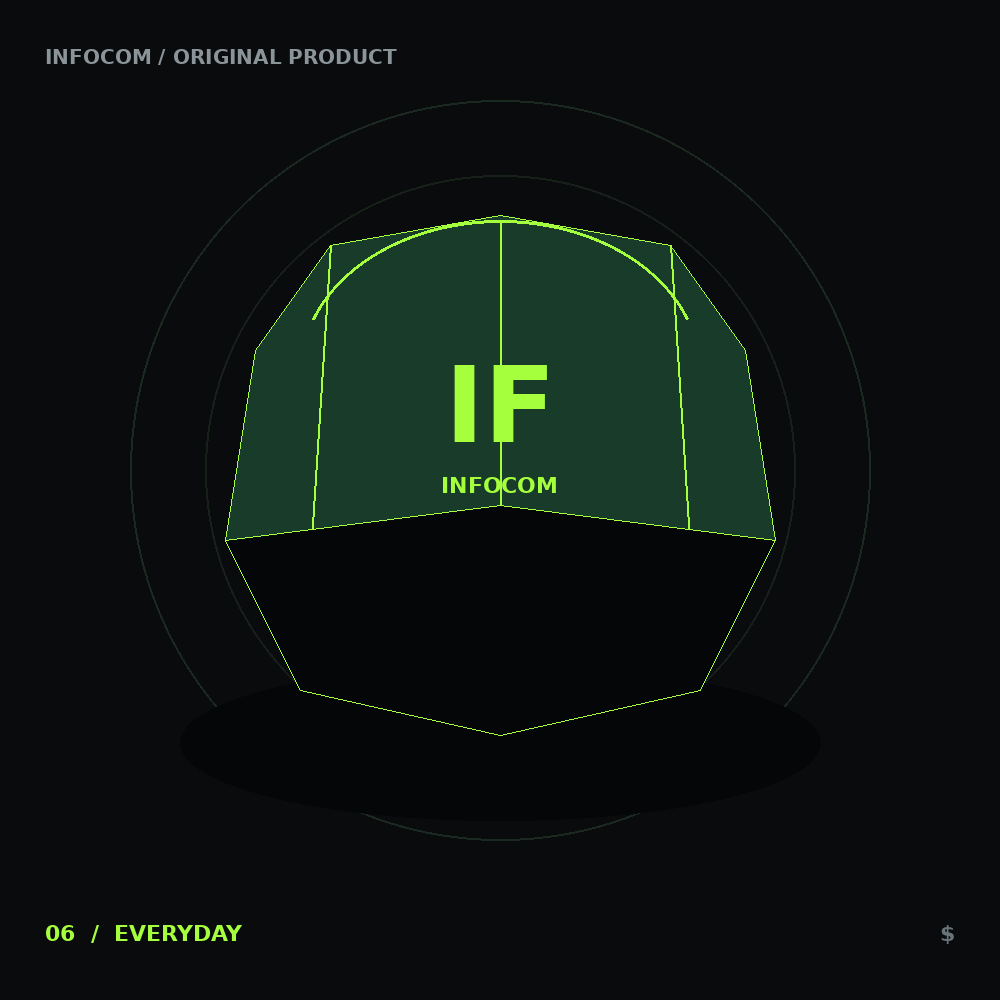
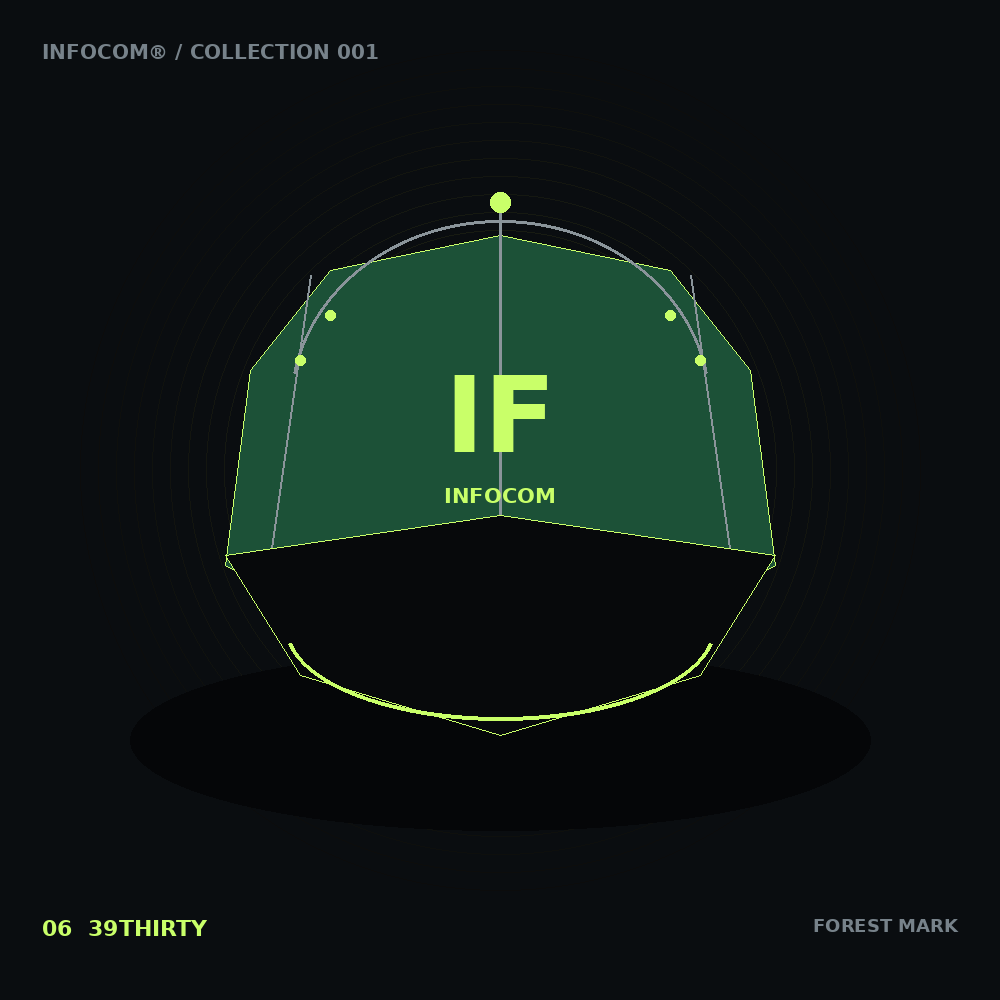
Add files via upload

diff --git a/css/style.css b/css/style.css
@@ -1,8 +1,12 @@
 
 *{box-sizing:border-box;margin:0;padding:0}
-:root{--bg:#07090b;--panel:#0e1216;--line:#252c31;--text:#f2f4f5;--muted:#879197;--lime:#a6ff3d}
+:root{--bg:#07090b;--panel:#0e1216;--line:#252c31;--text:#f2f4f5;--muted:#879197;--lime:#a6ff3d;--cyan:#62d6ff;--pink:#ff5d8f;--orange:#ffb84d;--purple:#a58cff}
 html{scroll-behavior:smooth}
-body{background:var(--bg);color:var(--text);font-family:Arial,Helvetica,sans-serif;line-height:1.45;overflow-x:hidden}
+body{background:
+radial-gradient(circle at 12% 18%,rgba(165,140,255,.08),transparent 24%),
+radial-gradient(circle at 88% 28%,rgba(98,214,255,.07),transparent 24%),
+radial-gradient(circle at 45% 88%,rgba(255,93,143,.05),transparent 25%),
+var(--bg);color:var(--text);font-family:Arial,Helvetica,sans-serif;line-height:1.45;overflow-x:hidden}
 a{text-decoration:none;color:inherit}button,input,select{font:inherit}
 .topbar{min-height:34px;background:var(--lime);color:#071006;display:flex;align-items:center;justify-content:space-between;gap:25px;padding:7px 5%;font-size:11px;font-weight:900;letter-spacing:.7px;white-space:nowrap}
 .header{height:78px;border-bottom:1px solid var(--line);background:rgba(7,9,11,.96);backdrop-filter:blur(14px);position:sticky;top:0;z-index:50;padding:0 5%;display:flex;align-items:center;justify-content:space-between}
@@ -15,22 +19,22 @@ nav{display:flex;align-items:center;gap:28px;height:100%;font-size:12px;font-wei
 .mega-feature{position:relative;height:175px;overflow:hidden;border:1px solid var(--line)}.mega-feature img{width:100%;height:100%;object-fit:cover}.mega-feature>div{position:absolute;bottom:12px;left:15px;font-size:11px;letter-spacing:1px}.mega-feature b{display:block;color:var(--lime);margin-top:4px}
 .actions{display:flex;gap:7px}.actions button{height:36px;background:#0e1216;border:1px solid var(--line);border-radius:4px;color:#e8ebed;padding:0 11px;font-size:11px;cursor:pointer}.actions button:hover{color:var(--lime);border-color:#53673e}.actions i{font-style:normal;color:var(--lime);margin-left:3px}.bag{font-weight:900}
 .mobile-menu{display:none;background:none;border:0;color:#fff;font-size:24px;cursor:pointer}
-.hero{min-height:710px;display:grid;grid-template-columns:1fr 1fr;padding:75px 7%;overflow:hidden;background:radial-gradient(circle at 72% 45%,#1b2b10,transparent 31%)}
+.hero{min-height:710px;background:radial-gradient(circle at 75% 42%,rgba(166,255,61,.16),transparent 24%),radial-gradient(circle at 62% 75%,rgba(98,214,255,.07),transparent 22%);display:grid;grid-template-columns:1fr 1fr;padding:75px 7%;overflow:hidden;background:radial-gradient(circle at 72% 45%,#1b2b10,transparent 31%)}
 .hero-left{padding-top:40px}.eyebrow{color:var(--lime);font-size:11px;font-weight:900;letter-spacing:2px}.hero h1{font-size:clamp(68px,8vw,112px);line-height:.79;letter-spacing:-7px;margin:24px 0 30px}.hero h1 em{font-style:normal;color:var(--lime)}
 .hero-left>p{max-width:500px;color:#c2c8cb;font-size:16px}.hero-buttons{display:flex;gap:25px;align-items:center;margin-top:30px}.btn{display:inline-block;background:var(--lime);color:#071006;padding:14px 18px;font-size:11px;font-weight:900;letter-spacing:1px;border:0;cursor:pointer}.btn b{margin-left:18px}.link{font-size:11px;font-weight:900;letter-spacing:1px}.link:hover{color:var(--lime)}
 .hero-foot{display:flex;gap:30px;margin-top:75px;color:#687278;font-size:10px;letter-spacing:1.4px}
 .hero-right{position:relative;display:grid;place-items:center}.hero-right>img{width:min(620px,95%);position:relative;z-index:2;filter:drop-shadow(0 40px 30px #000)}.hero-orbit{position:absolute;width:530px;height:530px;border:1px solid #36442d;border-radius:50%}.hero-orbit:after{content:"";position:absolute;inset:-70px;border:1px dashed #29352a;border-radius:50%}.hero-code{position:absolute;right:3%;bottom:10%;font-size:70px;font-weight:900;color:#151b1f;letter-spacing:-6px}.hero-side{position:absolute;right:-2%;top:50%;font-size:10px;color:#657078;letter-spacing:1.5px;transform:rotate(90deg)}
 .trust{height:84px;border-top:1px solid var(--line);border-bottom:1px solid var(--line);display:grid;grid-template-columns:repeat(4,1fr)}.trust div{display:flex;align-items:center;justify-content:center;gap:12px;border-right:1px solid var(--line);font-size:10px;letter-spacing:1px}.trust div:last-child{border-right:0}.trust b{color:var(--lime)}
-.editorial{display:grid;grid-template-columns:1fr 1.35fr;min-height:520px;border-bottom:1px solid var(--line)}.editorial-copy{padding:85px 10%;display:flex;flex-direction:column;justify-content:center}.editorial h2,.heading h2{font-size:clamp(50px,5.2vw,82px);line-height:.88;letter-spacing:-5px;margin:15px 0 25px}.editorial h2 em,.heading h2 em{font-style:normal;color:var(--lime)}.editorial p{max-width:440px;color:var(--muted);font-size:15px;margin-bottom:25px}.editorial-img{min-height:520px}.editorial-img img{width:100%;height:100%;object-fit:cover;display:block}
+.editorial{display:grid;background:linear-gradient(110deg,#0a0d10,#101a13 55%,#10151b);grid-template-columns:1fr 1.35fr;min-height:520px;border-bottom:1px solid var(--line)}.editorial-copy{padding:85px 10%;display:flex;flex-direction:column;justify-content:center}.editorial h2,.heading h2{font-size:clamp(50px,5.2vw,82px);line-height:.88;letter-spacing:-5px;margin:15px 0 25px}.editorial h2 em,.heading h2 em{font-style:normal;color:var(--lime)}.editorial p{max-width:440px;color:var(--muted);font-size:15px;margin-bottom:25px}.editorial-img{min-height:520px}.editorial-img img{width:100%;height:100%;object-fit:cover;display:block}
 .section{padding:95px 6%}.heading{display:flex;align-items:end;justify-content:space-between;gap:30px}.heading>p{font-size:11px;color:#687278;letter-spacing:1px;text-align:right}.heading>p b{color:var(--lime);font-size:22px}.toolbar{display:flex;justify-content:space-between;gap:25px;margin:35px 0 22px;border-top:1px solid var(--line);border-bottom:1px solid var(--line);padding:13px 0}.filters{display:flex;gap:18px;overflow:auto}.filters button,.tools button{background:none;border:0;color:#7d878d;font-size:10px;font-weight:900;letter-spacing:1px;cursor:pointer;white-space:nowrap}.filters button.active,.filters button:hover,.tools button:hover{color:var(--lime)}.tools{display:flex;gap:16px;align-items:center}.tools select{background:#0e1216;color:#bfc5c8;border:1px solid var(--line);padding:8px 10px;font-size:10px}
-.product-grid{display:grid;grid-template-columns:repeat(4,1fr);gap:14px}.card{background:#0e1216;border:1px solid var(--line);overflow:hidden;transition:.2s}.card:hover{border-color:#4d5b43;transform:translateY(-2px)}.card-img{height:330px;background:#090b0d;position:relative;overflow:hidden}.card-img img{width:100%;height:100%;object-fit:cover;display:block;transition:.35s}.card:hover .card-img img{transform:scale(1.035)}.badge{position:absolute;top:11px;left:11px;background:var(--lime);color:#071006;padding:6px 8px;font-size:9px;font-weight:900;letter-spacing:1px}.wish{position:absolute;top:10px;right:10px;border:1px solid #3b444a;background:#07090bcc;color:#fff;width:34px;height:34px;border-radius:50%;cursor:pointer}.wish.active{color:var(--lime);border-color:var(--lime)}
+.product-grid{display:grid;grid-template-columns:repeat(4,1fr);gap:14px}.card{background:linear-gradient(145deg,#11171b,#0b0e11);border:1px solid var(--line);overflow:hidden;transition:.2s}.card:hover{border-color:var(--lime);box-shadow:0 15px 45px rgba(166,255,61,.08);transform:translateY(-2px)}.card-img{height:330px;background:radial-gradient(circle at 50% 35%,#1b242a,#090b0d 70%);position:relative;overflow:hidden}.card-img img{width:100%;height:100%;object-fit:cover;display:block;transition:.35s}.card:hover .card-img img{transform:scale(1.035)}.badge{position:absolute;top:11px;left:11px;background:var(--lime);box-shadow:0 0 18px rgba(166,255,61,.18);color:#071006;padding:6px 8px;font-size:9px;font-weight:900;letter-spacing:1px}.wish{position:absolute;top:10px;right:10px;border:1px solid #3b444a;background:#07090bcc;color:#fff;width:34px;height:34px;border-radius:50%;cursor:pointer}.wish.active{color:var(--lime);border-color:var(--lime)}
 .card-info{padding:15px}.card-info small{color:var(--lime);font-size:9px;font-weight:900;letter-spacing:1.4px}.card-info h3{font-size:18px;margin:6px 0 3px}.card-info p{font-size:12px;color:var(--muted);margin-bottom:16px}.card-bottom{display:flex;align-items:center;justify-content:space-between}.card-bottom b{font-size:15px}.add{background:none;border:0;color:#adb5b9;font-size:10px;font-weight:900;cursor:pointer}.add:hover{color:var(--lime)}
-.silhouettes{padding:95px 6%;border-top:1px solid var(--line);background:#0d1115}.sil-grid{display:grid;grid-template-columns:repeat(4,1fr);gap:12px;margin-top:40px}.sil-grid button{border:1px solid var(--line);background:#080a0c;color:#fff;text-align:left;cursor:pointer;overflow:hidden}.sil-grid img{display:block;width:100%;height:280px;object-fit:cover;transition:.25s}.sil-grid button:hover img{transform:scale(1.04)}.sil-grid b{display:block;padding:15px 15px 2px;font-size:12px}.sil-grid span{display:block;padding:0 15px 18px;color:#687279;font-size:10px}
+.silhouettes{padding:95px 6%;border-top:1px solid var(--line);background:linear-gradient(135deg,#0d1115,#10171d 55%,#11170f)}.sil-grid{display:grid;grid-template-columns:repeat(4,1fr);gap:12px;margin-top:40px}.sil-grid button{border:1px solid var(--line);background:#080a0c;color:#fff;text-align:left;cursor:pointer;overflow:hidden}.sil-grid img{display:block;width:100%;height:280px;object-fit:cover;transition:.25s}.sil-grid button:hover img{transform:scale(1.04)}.sil-grid b{display:block;padding:15px 15px 2px;font-size:12px}.sil-grid span{display:block;padding:0 15px 18px;color:#687279;font-size:10px}
 .best{background:#080a0c}.mini-grid{display:grid;grid-template-columns:repeat(3,1fr);gap:15px;margin-top:35px}.mini{display:grid;grid-template-columns:45% 55%;background:#0e1216;border:1px solid var(--line)}.mini img{width:100%;height:210px;object-fit:cover}.mini div{padding:22px}.mini small{color:var(--lime);font-size:9px}.mini h3{font-size:19px;margin:8px 0}.mini b{font-size:15px}
-.campaign{display:grid;grid-template-columns:1.25fr 1fr;min-height:500px;border-top:1px solid var(--line);border-bottom:1px solid var(--line)}.campaign>img{width:100%;height:100%;min-height:500px;object-fit:cover;display:block}.campaign>div{padding:80px 12%;display:flex;flex-direction:column;justify-content:center}.campaign h2{font-size:65px;line-height:.87;letter-spacing:-4px;margin:14px 0}.campaign h2 em{color:var(--lime);font-style:normal}.campaign p{color:var(--muted);font-size:14px;max-width:380px;margin-bottom:22px}
+.campaign{display:grid;background:linear-gradient(110deg,#0b1014,#12100f);grid-template-columns:1.25fr 1fr;min-height:500px;border-top:1px solid var(--line);border-bottom:1px solid var(--line)}.campaign>img{width:100%;height:100%;min-height:500px;object-fit:cover;display:block}.campaign>div{padding:80px 12%;display:flex;flex-direction:column;justify-content:center}.campaign h2{font-size:65px;line-height:.87;letter-spacing:-4px;margin:14px 0}.campaign h2 em{color:var(--lime);font-style:normal}.campaign p{color:var(--muted);font-size:14px;max-width:380px;margin-bottom:22px}
 .story{display:grid;grid-template-columns:1fr 1fr;background:#0d1115}.story-art{height:620px;position:relative;background:#0a0d0f;overflow:hidden}.story-art img{width:100%;height:100%;object-fit:cover}.story-art span{position:absolute;left:25px;bottom:22px;color:#677177;font-size:9px;letter-spacing:1.7px}.story-copy{padding:90px 13%;display:flex;justify-content:center;flex-direction:column}.story-copy>p{max-width:500px;color:var(--muted);font-size:15px;margin:15px 0 35px}.story-stats{display:grid;grid-template-columns:repeat(3,1fr);max-width:500px;border-top:1px solid var(--line);padding-top:18px;margin-bottom:35px}.story-stats b{display:block;font-size:25px}.story-stats span{font-size:9px;color:#657078;letter-spacing:1px}
-.rewards{padding:95px 8%;display:grid;grid-template-columns:1.3fr .7fr;gap:70px;align-items:center;border-top:1px solid var(--line)}.rewards p{max-width:550px;color:var(--muted);font-size:14px;margin:18px 0 25px}.reward-card{height:300px;border:1px solid #38452f;background:radial-gradient(circle,#1a2b10,#080a0c 65%);display:grid;place-items:center;position:relative}.reward-card:before{content:"";position:absolute;width:230px;height:230px;border:1px solid #3d4e31;border-radius:50%}.reward-card span{font-size:115px;font-weight:900;color:transparent;-webkit-text-stroke:1px var(--lime)}.reward-card b,.reward-card small{position:absolute;font-size:10px;letter-spacing:2px}.reward-card b{top:18px;left:18px}.reward-card small{bottom:18px;right:18px;color:#637069}
-.newsletter{padding:80px 8%;display:flex;justify-content:space-between;align-items:end;background:var(--lime);color:#071006;gap:50px}.newsletter .eyebrow{color:#071006}.newsletter h2{font-size:55px;line-height:.9}.newsletter h2 em{color:#071006}.newsletter form{display:flex;width:min(520px,100%)}.newsletter input{flex:1;border:0;padding:16px;background:#efffdc;outline:0;font-size:11px}.newsletter button{border:0;background:#071006;color:var(--lime);padding:0 20px;font-size:10px;font-weight:900;cursor:pointer}
+.rewards{padding:95px 8%;background:radial-gradient(circle at 78% 45%,rgba(165,140,255,.11),transparent 28%);display:grid;grid-template-columns:1.3fr .7fr;gap:70px;align-items:center;border-top:1px solid var(--line)}.rewards p{max-width:550px;color:var(--muted);font-size:14px;margin:18px 0 25px}.reward-card{height:300px;border:1px solid #38452f;background:radial-gradient(circle,#1a2b10,#080a0c 65%);display:grid;place-items:center;position:relative}.reward-card:before{content:"";position:absolute;width:230px;height:230px;border:1px solid #3d4e31;border-radius:50%}.reward-card span{font-size:115px;font-weight:900;color:transparent;-webkit-text-stroke:1px var(--lime)}.reward-card b,.reward-card small{position:absolute;font-size:10px;letter-spacing:2px}.reward-card b{top:18px;left:18px}.reward-card small{bottom:18px;right:18px;color:#637069}
+.newsletter{padding:80px 8%;background:linear-gradient(90deg,var(--lime),#d8ff9b 55%,#9de7ff);display:flex;justify-content:space-between;align-items:end;background:var(--lime);color:#071006;gap:50px}.newsletter .eyebrow{color:#071006}.newsletter h2{font-size:55px;line-height:.9}.newsletter h2 em{color:#071006}.newsletter form{display:flex;width:min(520px,100%)}.newsletter input{flex:1;border:0;padding:16px;background:#efffdc;outline:0;font-size:11px}.newsletter button{border:0;background:#071006;color:var(--lime);padding:0 20px;font-size:10px;font-weight:900;cursor:pointer}
 .footer-main{padding:55px 6%;display:grid;grid-template-columns:2fr repeat(3,1fr);gap:40px}.footer-brand{font-size:28px;font-weight:900}.footer-brand span{color:var(--lime)}.footer-main p{font-size:11px;color:#687279;margin-top:7px}.footer-main b{font-size:10px;letter-spacing:1.7px}.footer-main a{display:block;font-size:11px;color:#818a90;margin-top:11px}.footer-main a:hover{color:var(--lime)}.footer-bottom{border-top:1px solid var(--line);margin:0 6%;padding:15px 0 25px;display:flex;justify-content:space-between;color:#4f5a60;font-size:9px;letter-spacing:1.3px}
 .drawer{position:fixed;right:-450px;top:0;width:430px;max-width:92vw;height:100vh;background:#0d1115;border-left:1px solid var(--line);z-index:90;padding:25px;transition:.25s}.drawer.open{right:0}.drawer-head{display:flex;justify-content:space-between;border-bottom:1px solid var(--line);padding-bottom:16px;font-size:11px;letter-spacing:1px}.drawer-head span{color:var(--lime)}.drawer-head button,.modal-close{border:0;background:none;color:#fff;font-size:30px;cursor:pointer}.cart-line{display:flex;justify-content:space-between;border-bottom:1px solid var(--line);padding:17px 0;font-size:11px}.cart-line small{display:block;color:#69737a;margin-top:5px}.cart-line strong{color:var(--lime)}
 .drawer-bottom{position:absolute;bottom:25px;left:25px;right:25px}.shipping-progress{font-size:9px;color:#768086;margin-bottom:18px}.shipping-progress div{height:4px;background:#252d32;margin-top:7px}.shipping-progress i{display:block;height:100%;background:var(--lime);width:0}.total{display:flex;justify-content:space-between;border-top:1px solid var(--line);padding-top:16px;margin-bottom:15px;font-size:10px}.total b{font-size:20px;color:var(--lime)}.drawer-bottom>button{width:100%;border:0;background:var(--lime);color:#071006;padding:15px;font-size:10px;font-weight:900}

diff --git a/js/script.js b/js/script.js
@@ -25,6 +25,7 @@ function render(){
  document.querySelectorAll("[data-add]").forEach(b=>b.onclick=e=>{e.stopPropagation();add(Number(b.dataset.add))});
  document.querySelectorAll("[data-wish]").forEach(b=>b.onclick=e=>{e.stopPropagation();toggleWish(Number(b.dataset.wish))});
  document.querySelectorAll(".card").forEach(c=>c.onclick=()=>openProduct(Number(c.dataset.id)));
+document.querySelectorAll(".card-img img").forEach(img=>img.loading="lazy");
 }
 function renderBest(){best.innerHTML=PRODUCTS.slice(0,3).map(p=>`<article class="mini"><img src="${p.img}" alt="${p.name}"><div><small>BEST SELLER</small><h3>${p.name}</h3><p style="font-size:11px;color:#879197;margin:0 0 16px">${p.desc}</p><b>$${p.price.toFixed(2)}</b><br><button class="add" data-add="${p.id}" style="margin-top:12px">ADD TO BAG ↗</button></div></article>`).join("");document.querySelectorAll(".mini [data-add]").forEach(b=>b.onclick=()=>add(Number(b.dataset.add)))}
 function add(id){const p=PRODUCTS.find(x=>x.id===id);cart.push(p.id);save();updateCart();openBag();toast(p.name+" added to bag")}

diff --git a/README.md b/README.md
@@ -1,10 +1,13 @@
-# INFOCOM WEB V4 — FIXED
+# INFOCOM WEB V5 — COLOR & SHAPES
 
-Versión corregida y más robusta del sitio INFOCOM.
+Versión visual mejorada del sitio INFOCOM, con más color, siluetas de gorras diferenciadas y renders de producto más trabajados.
 
 ## Correcciones principales
 
-- Imágenes de productos y banners convertidas a **PNG locales** para evitar imágenes rotas al abrir el sitio desde ZIP, Windows o GitHub Pages.
+- Imágenes de productos y banners convertidas a **PNG locales**
+- 12 gorras con siluetas visuales diferenciadas (59FIFTY, 9FIFTY, 9FORTY, 9SEVENTY, 39THIRTY y estilos curvos/planos)
+- Paleta de acentos lima, cyan, rosa, naranja y violeta integrada de forma controlada
+- Fondos, tarjetas y banners con iluminación y profundidad visual para evitar imágenes rotas al abrir el sitio desde ZIP, Windows o GitHub Pages.
 - Rutas de imágenes simplificadas y consistentes.
 - Barra superior corregida para evitar textos montados.
 - Navegación y mega menú corregidos.
